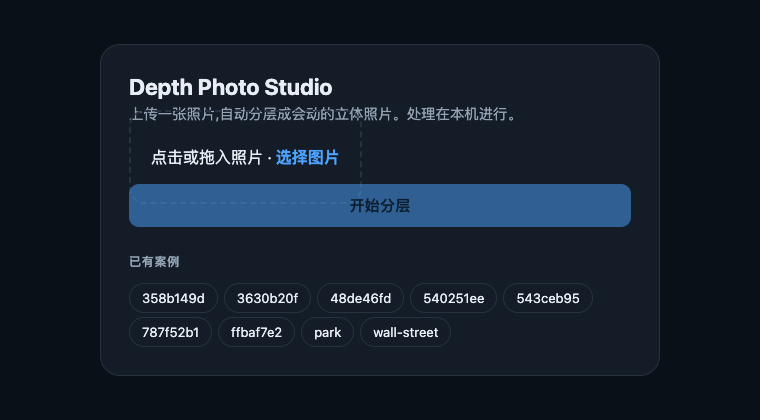
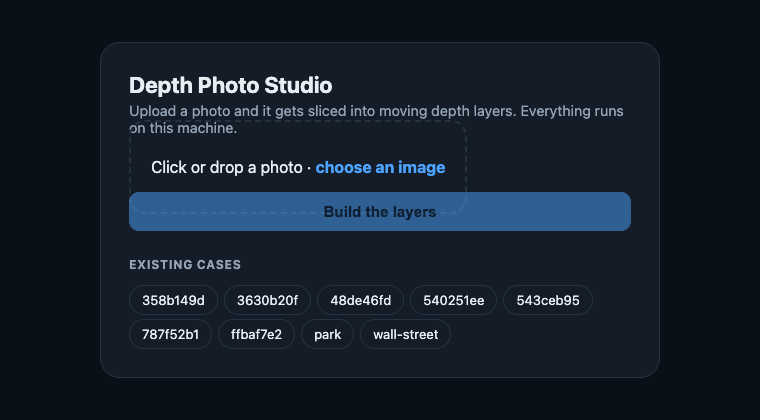
Fix --layered preview outside outputs/, translate the UI to English
build_preview.py --layered hardcoded outputs/background.png as the plate,
so pointing --scene at a case dir crashed on a shape mismatch. The plate
now resolves next to --scene (overridable with --background), and the
depth map is only read on the paths that actually use it, so a layered
render no longer needs a stale root outputs/.

Also translates every user-facing string in the editor, the upload page,
the exported viewer and the backend progress messages. Code comments are
left as they were. Screenshots re-taken against the English UI.

diff --git a/index.html b/index.html
@@ -82,36 +82,36 @@
     <div class="stage" id="stage">
       <div class="canvaswrap" id="wrap"><canvas id="gl"></canvas><canvas id="edit"></canvas></div>
       <div class="zoombar">
-        <button id="zoomOut" title="缩小">−</button>
+        <button id="zoomOut" title="Zoom out">−</button>
         <span class="zlvl" id="zlvl">100%</span>
-        <button id="zoomIn" title="放大">＋</button>
-        <button id="zoomFit" title="复位">⤢</button>
+        <button id="zoomIn" title="Zoom in">＋</button>
+        <button id="zoomFit" title="Fit to view">⤢</button>
       </div>
     </div>
-    <div class="hint" style="margin-top:10px">滚轮/⤢ 缩放,拖动平移(抠图时按住空格或中键拖)。移动光标或开 <b>Phone tilt</b> 看视差。<b>Cutout</b> 下先选层,再刷/擦,然后 <b>重新生成</b>。</div>
+    <div class="hint" style="margin-top:10px">Scroll / ⤢ to zoom, drag to pan (hold space or middle-drag while cutting out). Move the cursor or turn on <b>Phone tilt</b> to see the parallax. Under <b>Cutout</b>, pick a layer, brush or erase, then <b>re-bake</b>.</div>
   </div>
 
-  <div class="gutter" id="gutter" title="拖动改变宽度"></div>
+  <div class="gutter" id="gutter" title="Drag to resize"></div>
 
   <div class="side" id="side">
-    <div class="row" style="margin-top:0"><h2 style="margin:0">Controls</h2><button id="minBtn">▾ 收起</button></div>
+    <div class="row" style="margin-top:0"><h2 style="margin:0">Controls</h2><button id="minBtn">▾ collapse</button></div>
     <div class="row"><span>Parallax strength</span><input id="strength" type="range" min="0" max="0.06" step="0.001" value="0.022"></div>
     <div class="row"><span>Auto-sway</span><button id="sway">off</button></div>
-    <div class="row"><span>Phone tilt <span class="hint">(陀螺仪)</span></span><button id="tilt">off</button></div>
-    <div class="row"><span>视差锚点 <span class="hint">(不动的层·鼠标&陀螺仪)</span></span>
-      <div class="btns"><button id="pvFar">远</button><button id="pvMid">中</button><button id="pvNear" class="on">近</button><button id="pvSel">选中层</button></div></div>
+    <div class="row"><span>Phone tilt <span class="hint">(gyroscope)</span></span><button id="tilt">off</button></div>
+    <div class="row"><span>Anchor <span class="hint">(layer that stays still)</span></span>
+      <div class="btns"><button id="pvFar">far</button><button id="pvMid">mid</button><button id="pvNear" class="on">near</button><button id="pvSel">selected</button></div></div>
 
     <h2>Layers <span class="hint" id="rcount"></span></h2>
     <div class="regions" id="regionList"></div>
-    <button id="curveToggle" style="width:100%; margin-top:8px">调整深度分层 ▾</button>
+    <button id="curveToggle" style="width:100%; margin-top:8px">Adjust depth slicing ▾</button>
     <div id="curvePanel" class="hidden" style="margin-top:8px">
       <canvas id="curve" width="300" height="120" style="width:100%; height:120px; display:block; background:#0f1722; border:1px solid var(--line); border-radius:8px; touch-action:none; cursor:crosshair"></canvas>
-      <div class="hint" id="curveInfo" style="margin-top:6px">拖竖线=移动分界 · 双击空白=加一层 · 双击竖线=合并</div>
-      <button id="curveApply" class="primary" style="width:100%; margin-top:6px">✓ 应用深度分层 · 重新生成</button>
+      <div class="hint" id="curveInfo" style="margin-top:6px">drag a line = move the boundary · double-click empty space = add a layer · double-click a line = merge</div>
+      <button id="curveApply" class="primary" style="width:100%; margin-top:6px">✓ Apply slicing · re-bake</button>
     </div>
 
     <div class="selpanel hidden" id="selPanel">
-      <div class="row" style="margin-top:0"><b id="selName">–</b><span><span class="tag" id="selMode"></span> <button id="selClear">取消选择 ✕</button></span></div>
+      <div class="row" style="margin-top:0"><b id="selName">–</b><span><span class="tag" id="selMode"></span> <button id="selClear">deselect ✕</button></span></div>
       <div class="readout" id="selStats"></div>
       <div class="row"><span>Depth offset (re-rank)</span><input id="selOffset" type="range" min="-0.5" max="0.5" step="0.01" value="0"></div>
       <div class="row"><span class="readout" id="selOffsetVal">0.00</span>
@@ -121,33 +121,33 @@
       <div class="row"><span>Hide layer</span><button id="selHide">off</button></div>
     </div>
 
-    <h2>Cutout <span class="hint">抠图</span></h2>
-    <div class="hint">先在上面选一层(高亮蓝)。<b>画笔</b>刷进这层,<b>橡皮</b>把这层擦掉处退到后一层,<b>颜色魔棒</b>点相近色块整片归入,<b>SAM 选物体</b>点一下把整个物体归入——再用画笔/橡皮精修。</div>
+    <h2>Cutout</h2>
+    <div class="hint">Pick a layer above first (highlighted blue). <b>Brush</b> paints into that layer, <b>eraser</b> drops what you rub out back to the layer behind, <b>colour wand</b> pulls a whole patch of similar colour in, <b>SAM object</b> assigns an entire detected object in one click — then tidy up with the brush and eraser.</div>
     <div class="btns" style="margin-top:8px">
-      <button id="brushBtn">brush 画笔</button>
-      <button id="eraseBtn">eraser 橡皮</button>
-      <button id="wandBtn">颜色魔棒</button>
-      <button id="samBtn">SAM 选物体</button>
+      <button id="brushBtn">brush</button>
+      <button id="eraseBtn">eraser</button>
+      <button id="wandBtn">colour wand</button>
+      <button id="samBtn">SAM object</button>
     </div>
     <div class="row"><span>Brush size <span class="readout" id="brSizeVal">40</span></span><input id="brSize" type="range" min="1" max="300" step="1" value="40"></div>
-    <div class="row"><span>魔棒容差 <span class="readout" id="wandTolVal">30</span></span><input id="wandTol" type="range" min="5" max="120" step="1" value="30"></div>
-    <button id="rebakeBtn" class="primary" style="width:100%; margin-top:8px">✓ 应用抠图 · 重新生成分层</button>
-    <div class="btns" style="margin-top:6px"><button id="undoBtn">撤销涂抹</button></div>
+    <div class="row"><span>Wand tolerance <span class="readout" id="wandTolVal">30</span></span><input id="wandTol" type="range" min="5" max="120" step="1" value="30"></div>
+    <button id="rebakeBtn" class="primary" style="width:100%; margin-top:8px">✓ Apply cutout · re-bake layers</button>
+    <div class="btns" style="margin-top:6px"><button id="undoBtn">undo strokes</button></div>
 
-    <h2>Sparkles <span class="hint">动态光点(嵌进各层深度·会被遮挡)</span></h2>
-    <div class="row" style="margin-top:0"><span>开启</span><button id="spkOn">off</button></div>
-    <div class="row"><span>样式</span>
-      <div class="btns"><button id="spkStars" class="on">闪烁星</button><button id="spkDust">浮尘</button><button id="spkBokeh">光斑</button><button id="spkSnow">雪</button><button id="spkLeaves">碎叶</button></div></div>
-    <div class="row"><span>数量 <span class="readout" id="spkCountVal">400</span></span><input id="spkCount" type="range" min="50" max="2000" step="50" value="400"></div>
-    <div class="row"><span>速度 <span class="readout" id="spkSpeedVal">1.0</span></span><input id="spkSpeed" type="range" min="0" max="4" step="0.1" value="1"></div>
-    <div class="row"><span>方向角 <span class="readout" id="spkAngleVal">90°</span></span><input id="spkAngle" type="range" min="0" max="360" step="5" value="90"></div>
-    <div class="row"><span>扩散锥 <span class="readout" id="spkSpreadVal">30°</span></span><input id="spkSpread" type="range" min="0" max="360" step="5" value="30"></div>
-    <div class="row"><span>亮度 前↔后 <span class="readout" id="spkBrightVal">0.0</span></span><input id="spkBright" type="range" min="-1" max="1" step="0.1" value="0"></div>
-    <div class="row"><span>范围 <span class="readout" id="spkRangeVal">100%</span></span><input id="spkRange" type="range" min="5" max="100" step="5" value="100"></div>
-    <div class="hint">方向角 0°→ · 90°↓ · 180°← · 270°↑;范围=以画面中心为初始点的半径,越小越像从一点喷出</div>
+    <h2>Sparkles <span class="hint">particles sitting at each layer's depth · occluded by nearer layers</span></h2>
+    <div class="row" style="margin-top:0"><span>Enable</span><button id="spkOn">off</button></div>
+    <div class="row"><span>Style</span>
+      <div class="btns"><button id="spkStars" class="on">stars</button><button id="spkDust">dust</button><button id="spkBokeh">bokeh</button><button id="spkSnow">snow</button><button id="spkLeaves">leaves</button></div></div>
+    <div class="row"><span>Count <span class="readout" id="spkCountVal">400</span></span><input id="spkCount" type="range" min="50" max="2000" step="50" value="400"></div>
+    <div class="row"><span>Speed <span class="readout" id="spkSpeedVal">1.0</span></span><input id="spkSpeed" type="range" min="0" max="4" step="0.1" value="1"></div>
+    <div class="row"><span>Direction <span class="readout" id="spkAngleVal">90°</span></span><input id="spkAngle" type="range" min="0" max="360" step="5" value="90"></div>
+    <div class="row"><span>Spread cone <span class="readout" id="spkSpreadVal">30°</span></span><input id="spkSpread" type="range" min="0" max="360" step="5" value="30"></div>
+    <div class="row"><span>Brightness front↔back <span class="readout" id="spkBrightVal">0.0</span></span><input id="spkBright" type="range" min="-1" max="1" step="0.1" value="0"></div>
+    <div class="row"><span>Radius <span class="readout" id="spkRangeVal">100%</span></span><input id="spkRange" type="range" min="5" max="100" step="5" value="100"></div>
+    <div class="hint">Direction 0°→ · 90°↓ · 180°← · 270°↑. Radius = spawn disc around the centre of the image; the smaller it is, the more the particles look like they erupt from one point.</div>
 
     <div class="divider"></div>
-    <div class="btns"><button id="exportBtn" class="primary" style="width:100%">导出可分享 HTML</button></div>
+    <div class="btns"><button id="exportBtn" class="primary" style="width:100%">Export shareable HTML</button></div>
     <div class="btns" style="margin-top:6px"><button id="reset">reset all edits</button></div>
     <p class="hint" id="status" style="margin-top:12px">loading…</p>
   </div>
@@ -635,13 +635,13 @@ function labelToBlob(){                                  // editLabel → 灰度
   return new Promise(res=>c.toBlob(res,"image/png"));
 }
 async function rebake(){
-  $("status").textContent="重新生成层中…(约 10 秒)";
+  $("status").textContent="Re-baking layers… (about 10s)";
   const blob=await labelToBlob();
   const fd=new FormData(); fd.append("case",CASE); fd.append("file",blob,"labels.png");
   try{
     const res=await (await fetch("/api/rebake",{method:"POST",body:fd})).json();
-    if(res.ok){ location.reload(); } else { $("status").textContent="出错: "+(res.error||"?"); }
-  }catch(err){ $("status").textContent="需要用 app.py 后端才能重新生成"; }
+    if(res.ok){ location.reload(); } else { $("status").textContent="Error: "+(res.error||"?"); }
+  }catch(err){ $("status").textContent="Re-baking needs the app.py backend running"; }
 }
 
 /* ---------- 面板收起 / 案例切换 ---------- */
@@ -694,12 +694,12 @@ function drawCurve(){
     g.beginPath(); g.moveTo(x,12); g.lineTo(x,Hc); g.stroke();
     g.fillStyle="#4da3ff"; g.beginPath(); g.arc(x,8,5,0,7); g.fill(); });
   g.fillStyle="rgba(147,163,180,0.9)"; g.font="10px sans-serif";
-  g.fillText("远",x0+2,Hc-3); g.textAlign="right"; g.fillText("近",x1-2,Hc-3); g.textAlign="left";
-  $("curveInfo").textContent=`${bandList.length} 层 · 拖竖线=移动 · 双击空白=加一层 · 双击竖线=合并`;
+  g.fillText("far",x0+2,Hc-3); g.textAlign="right"; g.fillText("near",x1-2,Hc-3); g.textAlign="left";
+  $("curveInfo").textContent=`${bandList.length} layers · drag = move a boundary · double-click empty = add · double-click a line = merge`;
 }
 function openCurve(open){
   $("curvePanel").classList.toggle("hidden",!open);
-  $("curveToggle").textContent = open ? "深度分层 ▴" : "调整深度分层 ▾";
+  $("curveToggle").textContent = open ? "Depth slicing ▴" : "Adjust depth slicing ▾";
   if(open){ if(!hist) buildHistogram(); if(!override) seedBands();
     curveActive=true; recomputeLabel(); drawCurve(); }
   else { curveActive=false; redrawEditFull(); }
@@ -772,7 +772,7 @@ function bindUI(){
   $("brushBtn").onclick=()=>setCutoutMode("brush");
   $("eraseBtn").onclick=()=>setCutoutMode("eraser");
   $("wandBtn").onclick=()=>setCutoutMode("wand");
-  $("samBtn").onclick=()=>{ if(!segData){ $("status").textContent="这个案例没有 SAM 分割图(segments.png)"; return; } setCutoutMode("sam"); };
+  $("samBtn").onclick=()=>{ if(!segData){ $("status").textContent="This case has no SAM segmentation map (segments.png)"; return; } setCutoutMode("sam"); };
   $("brSize").oninput=e=>{ brushSize=+e.target.value; $("brSizeVal").textContent=brushSize; };
   $("wandTol").oninput=e=>{ wandTol=+e.target.value; $("wandTolVal").textContent=wandTol; };
   $("rebakeBtn").onclick=rebake;
@@ -801,7 +801,7 @@ function bindUI(){
   fetch("/api/cases").then(r=>r.json()).then(list=>{
     if(Array.isArray(list) && list.length){
       $("caseSel").innerHTML = list.map(c=>`<option value="${c}">${c}</option>`).join("")
-        + '<option value="__new">+ 上传新照片</option>';
+        + '<option value="__new">+ upload a new photo</option>';
     }
     $("caseSel").value = CASE;
   }).catch(()=>{ $("caseSel").value = CASE; });
@@ -824,9 +824,9 @@ function bindUI(){
       e.target.textContent="off"; e.target.classList.remove("on"); return; }
     try{                                            // iOS 13+ 需要用户手势里申请权限
       if(typeof DeviceOrientationEvent!=="undefined" && DeviceOrientationEvent.requestPermission){
-        if(await DeviceOrientationEvent.requestPermission()!=="granted"){ alert("需要允许「动作与方向」权限"); return; }
+        if(await DeviceOrientationEvent.requestPermission()!=="granted"){ alert("Motion & Orientation access is required"); return; }
       }
-    }catch(err){ alert("陀螺仪不可用: "+err); return; }
+    }catch(err){ alert("Gyroscope unavailable: "+err); return; }
     tilt.ref=null; tilt.on=true; window.addEventListener("deviceorientation",onOrient);
     e.target.textContent="on"; e.target.classList.add("on");
   };

diff --git a/web/app.html b/web/app.html
@@ -1,5 +1,5 @@
 <!DOCTYPE html>
-<html lang="zh">
+<html lang="en">
 <head>
 <meta charset="UTF-8" />
 <meta name="viewport" content="width=device-width, initial-scale=1.0" />
@@ -36,22 +36,22 @@
 <body>
 <div class="card">
   <h1>Depth Photo Studio</h1>
-  <p class="sub">上传一张照片,自动分层成会动的立体照片。处理在本机进行。</p>
+  <p class="sub">Upload a photo and it gets sliced into moving depth layers. Everything runs on this machine.</p>
 
   <label class="drop" id="drop">
-    点击或拖入照片 · <b>选择图片</b>
+    Click or drop a photo · <b>choose an image</b>
     <input type="file" id="file" accept="image/*">
   </label>
   <img class="thumb" id="thumb">
-  <button id="go" disabled>开始分层</button>
+  <button id="go" disabled>Build the layers</button>
 
   <div class="prog" id="prog">
     <div class="bar"><i id="barFill"></i></div>
-    <div class="msg" id="progMsg">处理中…</div>
+    <div class="msg" id="progMsg">Working…</div>
   </div>
 
   <div class="cases">
-    <h2>已有案例</h2>
+    <h2>Existing cases</h2>
     <div id="caseList"></div>
   </div>
 </div>
@@ -86,7 +86,7 @@ async function poll(job){
   $("barFill").style.width = pct + "%";
   $("progMsg").textContent = `${s.msg||""} (${s.step||0}/${s.total||5})`;
   if(s.status === "done"){ location.href = "/editor?case=" + s.case; return; }
-  if(s.status === "error"){ $("progMsg").textContent = "出错: " + s.msg; $("go").disabled=false; return; }
+  if(s.status === "error"){ $("progMsg").textContent = "Error: " + s.msg; $("go").disabled=false; return; }
   setTimeout(()=>poll(job), 800);
 }
 
@@ -94,7 +94,7 @@ async function poll(job){
 fetch("/api/cases").then(r=>r.json()).then(list=>{
   $("caseList").innerHTML = list.length
     ? list.map(c=>`<a class="caseLink" href="/editor?case=${c}">${c}</a>`).join("")
-    : '<span style="color:var(--mut);font-size:.82rem">还没有,先上传一张</span>';
+    : '<span style="color:var(--mut);font-size:.82rem">None yet — upload one to start</span>';
 }).catch(()=>{});
 </script>
 </body>

diff --git a/viewer_template.html b/viewer_template.html
@@ -1,5 +1,5 @@
 <!DOCTYPE html>
-<html lang="zh">
+<html lang="en">
 <head>
 <meta charset="UTF-8" />
 <meta name="viewport" content="width=device-width, initial-scale=1.0, maximum-scale=1.0, user-scalable=no" />
@@ -19,8 +19,8 @@
 </head>
 <body>
 <div id="stage"><canvas id="gl"></canvas></div>
-<div id="hint">移动鼠标 / 倾斜手机看立体视差</div>
-<button id="tiltBtn">开启手机陀螺仪</button>
+<div id="hint">Move your mouse — or tilt your phone — to see the depth</div>
+<button id="tiltBtn">Enable phone gyroscope</button>
 <script>
 // ====== 导出时注入的数据 ======
 const SCENE   = /*__SCENE__*/ {"width":1,"height":1,"layers":[]};   // {width,height,layers:[{id,depth_mean}] far→near}
@@ -190,12 +190,12 @@ addEventListener("pointerleave",()=>mouse.inside=false);
 addEventListener("orientationchange",()=>{ tilt.ref=null; });
 $("tiltBtn").onclick=async()=>{
   if(tilt.on){ tilt.on=false; removeEventListener("deviceorientation",onOrient);
-    $("tiltBtn").textContent="开启手机陀螺仪"; $("tiltBtn").classList.remove("on"); return; }
+    $("tiltBtn").textContent="Enable phone gyroscope"; $("tiltBtn").classList.remove("on"); return; }
   try{ if(typeof DeviceOrientationEvent!=="undefined"&&DeviceOrientationEvent.requestPermission){
-    if(await DeviceOrientationEvent.requestPermission()!=="granted"){ alert("需要允许「动作与方向」权限"); return; } }
-  }catch(err){ alert("陀螺仪不可用"); return; }
+    if(await DeviceOrientationEvent.requestPermission()!=="granted"){ alert("Motion & Orientation access is required"); return; } }
+  }catch(err){ alert("Gyroscope unavailable"); return; }
   tilt.ref=null; tilt.on=true; addEventListener("deviceorientation",onOrient);
-  $("tiltBtn").textContent="关闭陀螺仪"; $("tiltBtn").classList.add("on");
+  $("tiltBtn").textContent="Disable gyroscope"; $("tiltBtn").classList.add("on");
 };
 
 (async()=>{

diff --git a/build_preview.py b/build_preview.py
@@ -39,6 +39,8 @@ def parse_args():
                    help="layered mode: regions with depth_mean >= this are moving foreground cutouts")
     p.add_argument("--scene", default=str(OUTPUT_DIR / "scene.json"))
     p.add_argument("--labels", default=str(OUTPUT_DIR / "region_labels.png"))
+    p.add_argument("--background", default=None,
+                   help="layered mode: background plate (default: background.png beside --scene)")
     return p.parse_args()
 
 
@@ -87,18 +89,20 @@ def main():
     args = parse_args()
     import json
     img = np.asarray(Image.open(args.image).convert("RGB"))
-    depth = np.asarray(Image.open(args.depth).convert("L")).astype(np.float32) / 255.0
-    H, W = depth.shape
 
     if args.layered:
         # Ghost-free: cutouts move with their alpha over the prebuilt plate.
+        # Depth isn't read here — the sprites already carry their layer order.
         scene = json.load(open(args.scene))
         lab = np.asarray(Image.open(args.labels).convert("L"))
-        plate = str(OUTPUT_DIR / "background.png")
+        # Plate lives beside the scene it belongs to, so --scene from a case dir stays consistent.
+        plate = args.background or str(Path(args.scene).parent / "background.png")
         print(f"layered mode: {sum(1 for r in scene['regions'] if r.get('mover'))}"
               f" mover cutouts over {Path(plate).name}")
         rgb_frames = layered_frames(img, scene, lab, args.amp, args.frames, plate)
     else:
+        depth = np.asarray(Image.open(args.depth).convert("L")).astype(np.float32) / 255.0
+        H, W = depth.shape
         if args.snap:
             depth = snapped_depth(args.scene, args.labels, (H, W))
             print("snapped mode: each region moves as one flat plane at its layer depth")

diff --git a/pipeline.py b/pipeline.py
@@ -30,25 +30,25 @@ def process_image(input_path, case_dir, points_per_side: int = 32, progress=None
     case_dir = Path(case_dir)
     case_dir.mkdir(parents=True, exist_ok=True)
 
-    tick(1, "裁边")
+    tick(1, "Cropping the frame")
     img = remove_white_frame(Image.open(input_path).convert("RGB"))
     img.save(case_dir / "cropped_input.png")
 
-    tick(2, "估计深度")
+    tick(2, "Estimating depth")
     depth = build_depth_map(img)
     save_depth_image(depth, case_dir / "depth_map.png")
 
-    tick(3, "SAM 分割 + valley 分层")
+    tick(3, "SAM segmentation + valley slicing")
     masks, _ = run_sam2_masks(img, points_per_side=points_per_side)
     label_map, regions = build_sam_valley_regions(np.asarray(depth, np.float32) if not isinstance(depth, np.ndarray) else depth, masks)
     save_scene(label_map, regions, case_dir)   # 写 scene.json + region_labels.png
     save_segments(masks, case_dir / "segments.png")   # SAM 分割图,供网页「SAM 选物体」
 
-    tick(4, "背景补全")
+    tick(4, "Inpainting the backplate")
     build_background(case_dir / "cropped_input.png", case_dir / "scene.json",
                      case_dir / "region_labels.png", case_dir / "background.png")
 
-    tick(5, "生成分层贴图")
+    tick(5, "Baking layer sprites")
     build_sprites(case_dir / "cropped_input.png", case_dir / "scene.json",
                   case_dir / "region_labels.png", case_dir / "sprites")
     return case_dir

diff --git a/app.py b/app.py
@@ -46,7 +46,7 @@ async def api_process(file: UploadFile = File(...)):
     upath = case_dir / ("upload" + (Path(file.filename).suffix or ".png"))
     with open(upath, "wb") as f:
         shutil.copyfileobj(file.file, f)
-    jobs[cid] = {"status": "running", "step": 0, "total": 5, "msg": "排队中", "case": cid}
+    jobs[cid] = {"status": "running", "step": 0, "total": 5, "msg": "Queued", "case": cid}
     threading.Thread(target=_run_job, args=(cid, str(upath), str(case_dir)), daemon=True).start()
     return {"job": cid}
 

diff --git a/README.md b/README.md
@@ -39,7 +39,7 @@ Once a photo is processed you land in the editor, where the layering is yours to
 
 ![Editor](docs/editor.png)
 
-- **Motion** — mouse, auto-sway, or phone gyroscope (needs HTTPS on a real device). Pick the *parallax anchor*: which depth stays pinned while everything else moves around it.
+- **Motion** — mouse, auto-sway, or phone gyroscope (needs HTTPS on a real device). Pick the *anchor*: which depth stays pinned while everything else moves around it.
 - **Layer list** — select a layer to highlight it, nudge it forward/back in depth, freeze it, or hide it.
 - **Cutout tools** — brush, eraser, colour wand, and *SAM object pick* (one click assigns a whole detected object to the current layer). Re-bake to regenerate the backplate and sprites from your edits.
 - **Depth curve** — drag the boundaries between layers directly on the depth histogram.
@@ -66,8 +66,11 @@ python build_scene.py                       # re-slice using the cached depth ma
 python build_background.py --method harmonic
 python build_sprites.py
 
-# Render a parallax preview GIF
+# Render a parallax preview GIF (any stage flag accepts a case dir)
 python build_preview.py --layered
+python build_preview.py --layered --scene outputs/cases/park/scene.json \
+    --image outputs/cases/park/cropped_input.png \
+    --labels outputs/cases/park/region_labels.png --out park.gif
 ```
 
 ### Inpainting methods
@@ -108,5 +111,3 @@ A case folder holds `cropped_input.png`, `depth_map.png`, `region_labels.png`, `
 ## Requirements
 
 Python 3.10+, plus `torch`, `transformers`, `opencv-python`, `numpy`, `Pillow`, `fastapi`, `uvicorn`. Optional: `simple-lama-inpainting` for the `lama` backfill. A GPU (CUDA or Apple MPS) is used automatically when present but is not required.
-
-> Note: the editor and upload UI are currently labelled in Chinese.